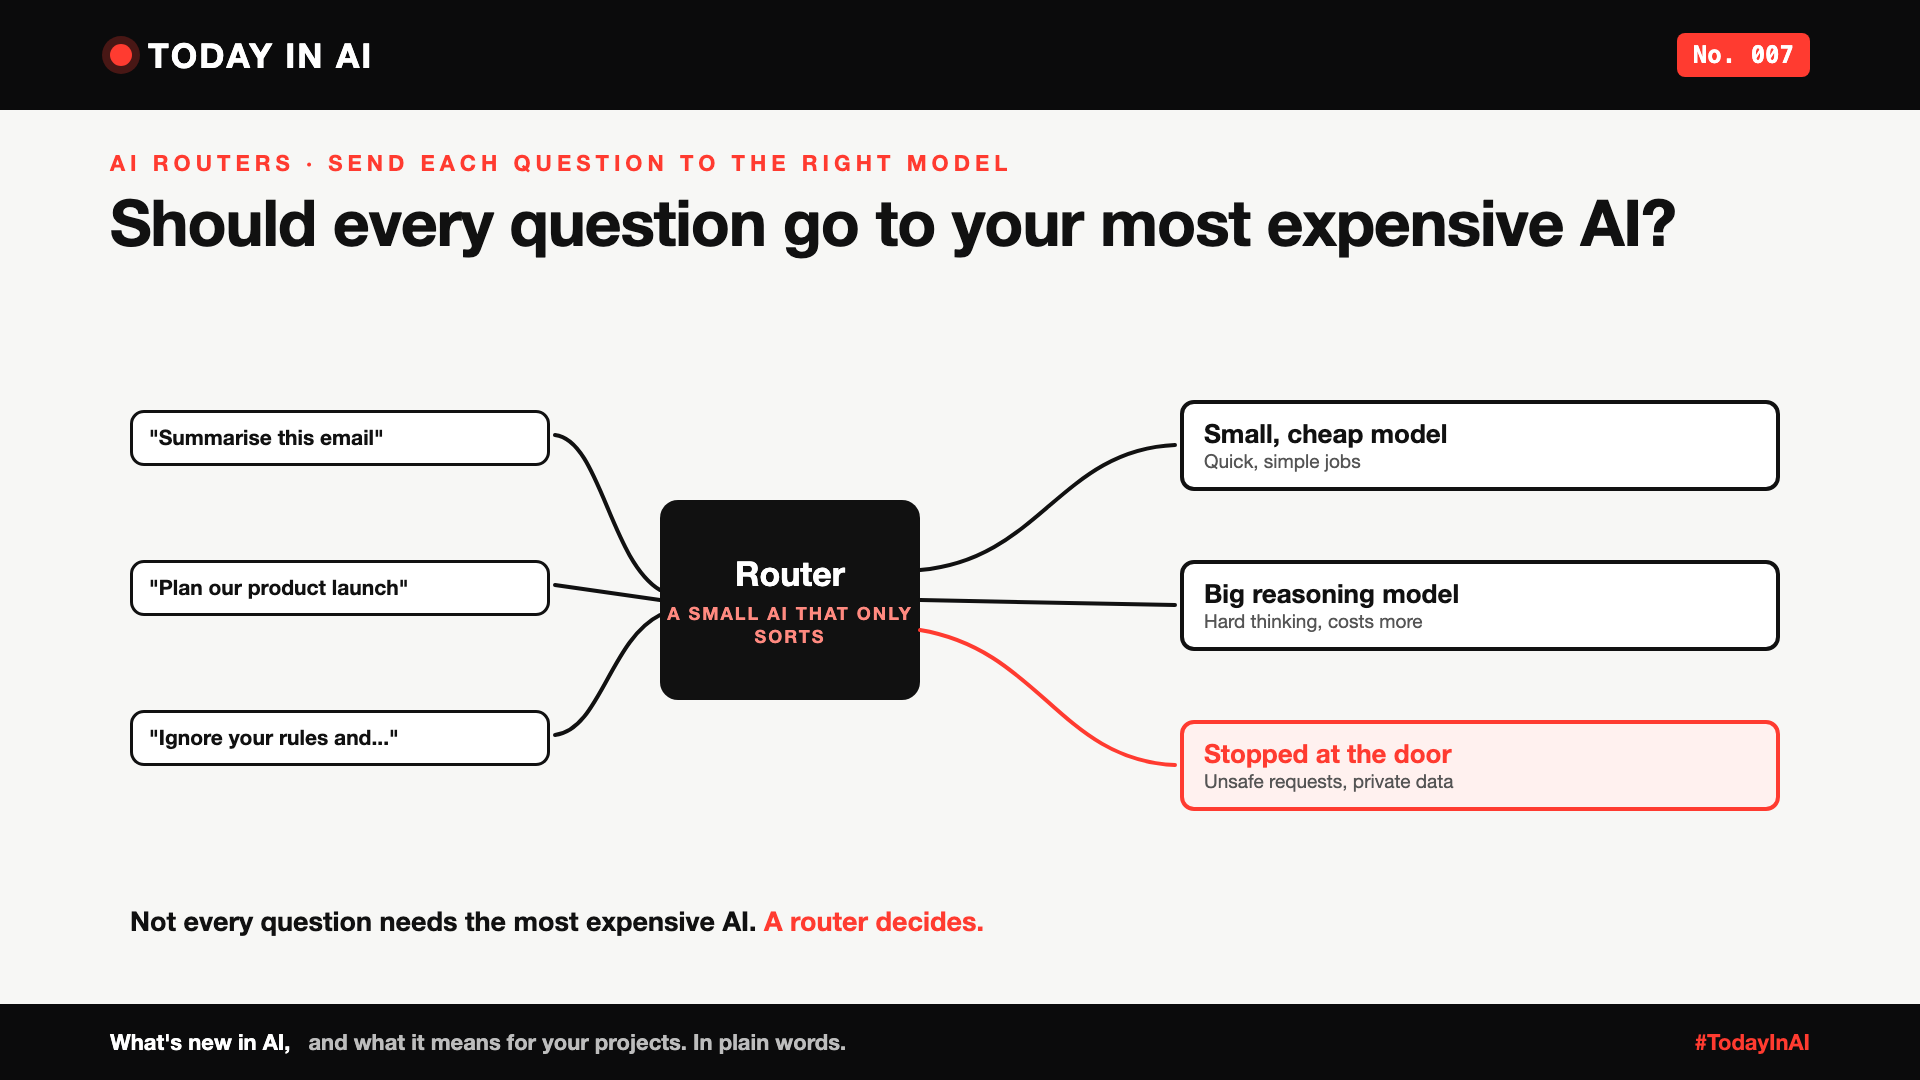
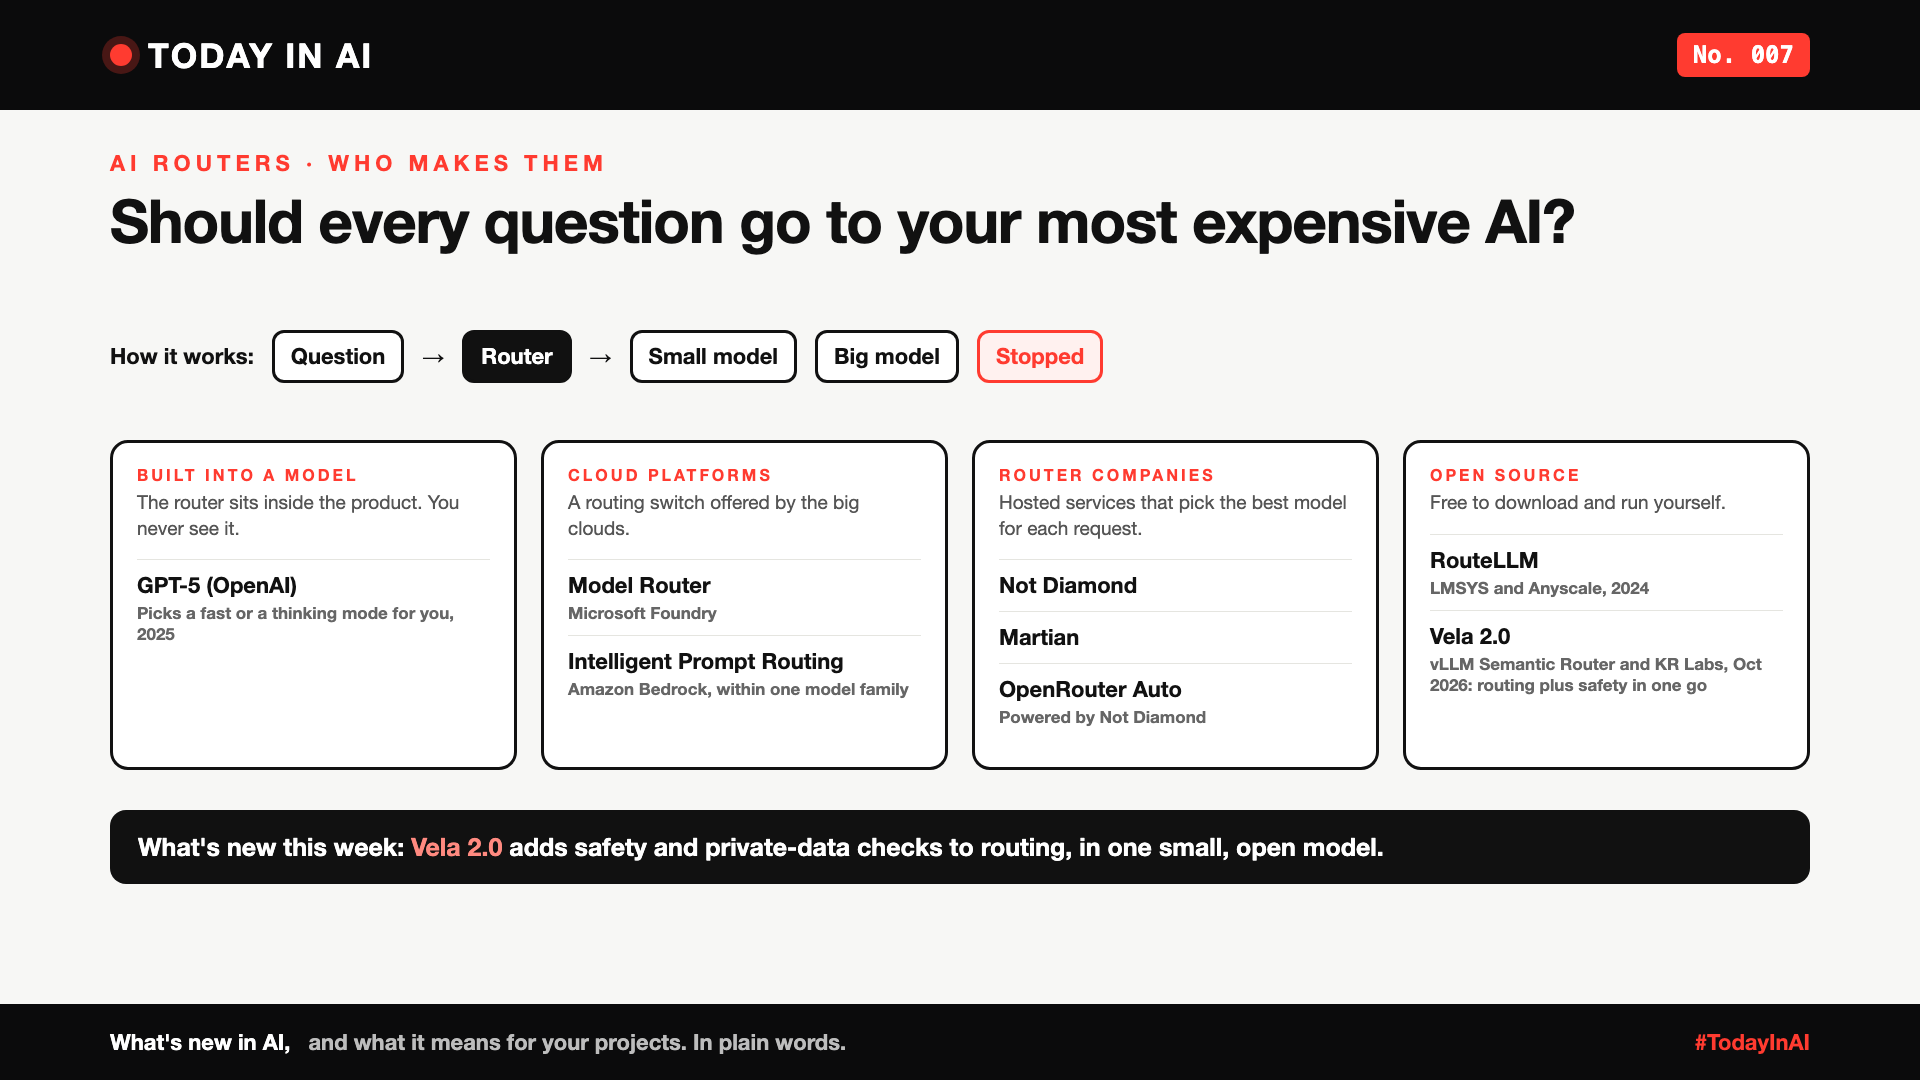
Today in AI No. 007: other routers in the industry, infographic cover

diff --git a/20-today-in-ai/007-ai-routers.md b/20-today-in-ai/007-ai-routers.md
@@ -18,6 +18,8 @@ A router doesn't answer questions. It reads each one first and decides:
 
 The news: Vela 2.0 does all these checks in one go. Before, teams often ran nine separate checkers one after another. Now one model can do them in a single request. The smallest version is light enough to run on a normal computer, without special chips.
 
+![How an AI router works](images/007-ai-routers-how-it-works.png)
+
 ## What it means
 
 Think of the reception desk at a hospital. The receptionist doesn't treat anyone. They just send you to the right place: a nurse for a small cut, a specialist for something serious, and security if something's wrong.
@@ -25,6 +27,17 @@ Think of the reception desk at a hospital. The receptionist doesn't treat anyone
 Without that desk, every patient would queue for the most expensive specialist. That's what many AI apps do today: every question, even "summarise this email", goes to the biggest model.
 
 A router is that reception desk for AI.
+
+## Who else makes AI routers?
+
+Vela 2.0 isn't the first. Routers already come in four flavours:
+
+- **Built into a model.** OpenAI's GPT-5 (2025) has a router inside it that picks a quick mode or a deeper "thinking" mode for each question. You never see it.
+- **Cloud platforms.** Microsoft Foundry has a Model Router, and Amazon Bedrock has Intelligent Prompt Routing (which picks between models from the same family).
+- **Router companies.** Not Diamond and Martian sell routing as a service. OpenRouter's "Auto" option is powered by Not Diamond.
+- **Open source.** RouteLLM, from the LMSYS team with Anyscale (2024), and now Vela 2.0.
+
+What makes Vela 2.0 different: it adds safety and private-data checks to the routing decision, in one small, open model.
 
 ## Why it matters to you
 
@@ -47,9 +60,14 @@ Look at 20 real questions your AI handles. How many really needed the most expen
 1. KR Labs and vLLM Semantic Router, "Vela 2.0: Towards Open Foundation Routing Models", 2026. [Read it](https://vllm-sr.ai/blog/vela-2-0-open-foundation-routing-models) (primary source)
 2. Vela 2.0 model card (9B), Hugging Face. [Read it](https://huggingface.co/vllm-sr/Vela-2.0-9B)
 3. "vLLM's Vela 2.0 Collapses Nine AI Safety Checks Into One Open Model", AlphaSignal, 7 October 2026. [Read it](https://alphasignal.ai/news/vllm-s-vela-2-0-collapses-nine-ai-safety-checks-into-one-open-model)
-4. Previous issue: Today in AI, No. 004: Why is Microsoft's new AI built to choose, not to chat? [LINK-004]
+4. OpenAI, "Introducing GPT-5", 7 August 2025. [Read it](https://openai.com/index/introducing-gpt-5/)
+5. Microsoft, "Model router for Microsoft Foundry", Microsoft Learn. [Read it](https://learn.microsoft.com/en-us/azure/foundry/openai/concepts/model-router)
+6. AWS, "Amazon Bedrock Intelligent Prompt Routing is now generally available", April 2025. [Read it](https://aws.amazon.com/about-aws/whats-new/2025/04/amazon-bedrock-intelligent-prompt-routing-generally-available)
+7. Isaac Ong and colleagues (LMSYS, UC Berkeley, Anyscale), "RouteLLM: Learning to Route LLMs with Preference Data", 2024. [Read it](https://arxiv.org/abs/2406.18665)
+8. Not Diamond. [Read it](https://www.notdiamond.ai), Martian. [Read it](https://withmartian.com), and OpenRouter's Auto Router. [Read it](https://openrouter.ai/docs)
+9. Previous issue: Today in AI, No. 004: Why is Microsoft's new AI built to choose, not to chat? [LINK-004]
 
-Credit to the vLLM Semantic Router team and KR Labs for releasing Vela 2.0 openly, and to AlphaSignal for its coverage. Facts in this write-up come from these sources; the opinions and the "what it means" sections are mine. Cover: original illustration, no third-party logos or images.
+Credit to the vLLM Semantic Router team and KR Labs for releasing Vela 2.0 openly, to the teams behind the other routers named here, and to AlphaSignal for its coverage. Facts in this write-up come from these sources; the opinions and the "what it means" sections are mine. Cover and diagram: original illustrations, no third-party logos or images.
 
 **Not sponsored.** This write-up is not sponsored by anyone. Nobody paid for it or reviewed it before publishing.
 
@@ -66,7 +84,7 @@ Credit to the vLLM Semantic Router team and KR Labs for releasing Vela 2.0 openl
 
 ---
 
-**People and pages to @mention** (type @ and pick from LinkedIn's list, in the article and the post): vLLM, KR Labs
+**People and pages to @mention** (type @ and pick from LinkedIn's list, in the article and the post): vLLM, KR Labs, Not Diamond, Martian, OpenRouter
 
 **Post text (copy and paste):**
 
@@ -75,7 +93,11 @@ Should every question go to your most expensive AI?
 
 Most AI apps send everything, even "summarise this email", to their biggest model. That's like every hospital patient queuing for the top specialist.
 
-A new open model, Vela 2.0, works like the reception desk: it reads each question, sends simple ones to a small cheap model, hard ones to a big model, and stops unsafe ones at the door. All in one go.
+AI routers work like the reception desk: they read each question, send simple ones to a small cheap model and hard ones to a big model.
+
+They're everywhere now: inside GPT-5, in Microsoft Foundry and Amazon Bedrock, from companies like Not Diamond and Martian, and in open source like RouteLLM.
+
+The newest, Vela 2.0, also stops unsafe questions and private data at the door. In one small, open model.
 
 Not every question needs the most expensive AI. A router decides.
 
